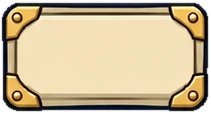
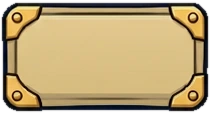
밝은 크림 바탕 → 양피지 톤, 게임 전체 (DHL 11-19)
- 키트 그림 btn_cream · btn_cream_pressed 를 양피지 톤으로 다시 칠함 (금테 · 외곽선은 그대로)
  → 선택된 탭 · 번호 정렬 · 머지 하지 않음 · 용어 사전 · 캠프 구매 버튼 · 컬렉션 분류가 함께 바뀜
- 색으로 칠한 크림 칸: 원정 캠프 설명 칸 · 결과 화면 줄 · 통계 줄 · 덱 보기 칩 · 구슬 설명의 지금 단계 · 전투 연출 보기의 선택 칩
  → 짙은 베이지 그러데이션 + 갈색 테 + 안쪽 음영 (--parch)

Claude-Session: https://claude.ai/code/session_01UsiBrPk9kwis6B71C6gGhW

diff --git a/index.html b/index.html
@@ -6542,6 +6542,14 @@ html.lmB .shop .ordRow>button{--kb:url(assets/ui/kit/btn_blue.webp);--kbp:url(as
 html.lmB .shop .ordRow>button.act{--kb:url(assets/ui/kit/btn_orange.webp);--kbp:url(assets/ui/kit/btn_orange_pressed.webp);position:static!important;transform:none!important;min-width:110px}
 html.lmB .shop .ordRow>button:active:not(:disabled){border-image-source:var(--kbp,var(--kb))!important;transform:translateY(2px);filter:drop-shadow(0 1px 0 #000b)}
 html.lmB .shop .ordRow>button:disabled{filter:grayscale(1) brightness(.6) drop-shadow(0 3px 0 #000a);opacity:.7;cursor:default}
+/* (DHL 11-19 '일반 크림색으로 들어간 곳 → 이 느낌의 색으로 · 전체') 밝은 크림 바탕 → 양피지 톤: 짙은 베이지 그러데이션 + 갈색 테 + 안쪽 음영.
+   키트 그림 btn_cream(·_pressed).webp 도 같은 톤으로 다시 칠함(금테는 그대로) → 선택된 탭 · 번호 정렬 · 머지 하지 않음 · 용어 사전 · 캠프 구매 버튼이 함께 바뀜 */
+:root{--parch:linear-gradient(#e0cfa3,#cbb682);--parch-bd:#7a5a1e;--parch-in:inset 0 0 0 1px #7a5a1e,inset 0 2px 0 #fff5,inset 0 -3px 7px #5a3d0e33}
+html.lmB body .shop .sDesc{background:var(--parch)!important;border-color:var(--parch-bd)!important;box-shadow:inset 0 1px 0 #fff5,inset 0 -3px 7px #5a3d0e33,0 3px 0 #0006!important}
+html.lmB body #lm-title .pl-white,html.lmB body #lm-title .st-row,html.lmB body .goWide,html.lmB body .goC{background:var(--parch)!important;box-shadow:var(--parch-in),0 2px 0 #050a14!important}
+html body .dkChip.on{background:var(--parch);border-color:var(--parch-bd)}
+html body #lmOrbTip .tNow{background:var(--parch)}
+html body #lm-title .lm-fxcard .fxChip.on,html body #lm-title .fx2 .fxSeg button.on,html body #lmFxPlayer .fpStars button.on,html body #lmFxPlayer .fpBar .fpSeg button.on{background:var(--parch)!important}
 /* 🏕 왼쪽 간판 '원정 캠프' 한 줄 (글자 수가 늘어 두 줄로 꺾이던 것) */
 html.lmB .shopSign{white-space:nowrap!important;letter-spacing:1px!important;font-size:clamp(22px,min(5.2vh,2.6vw),40px)!important}
 @media (max-height:460px){html.lmB .shopSign{font-size:17px!important;letter-spacing:0!important}}
